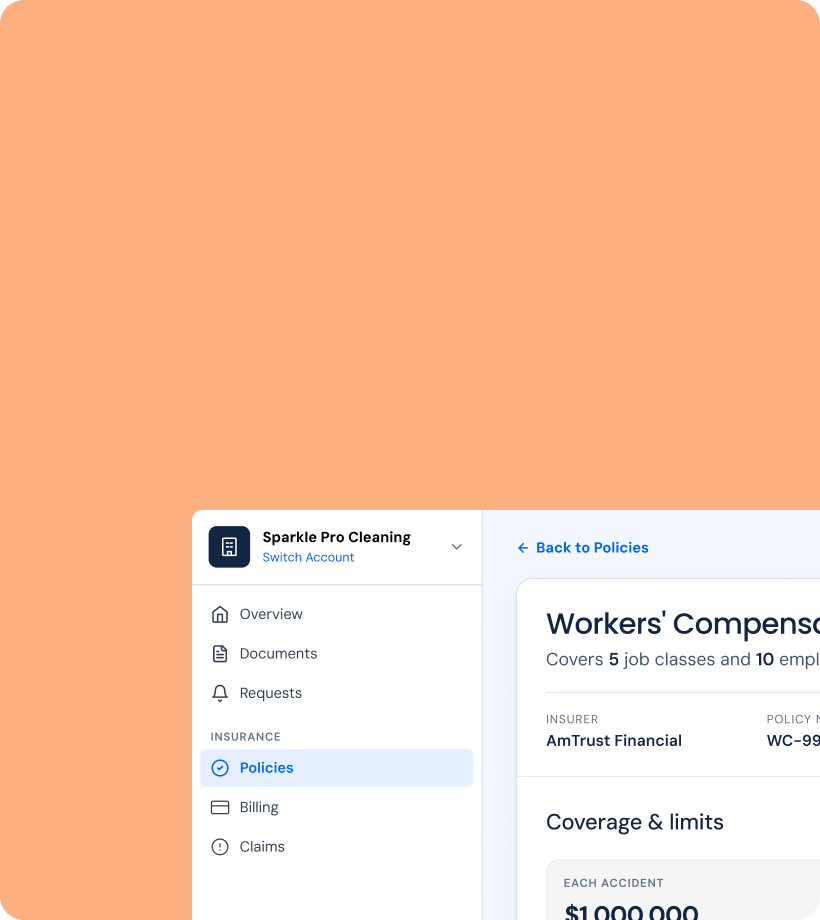
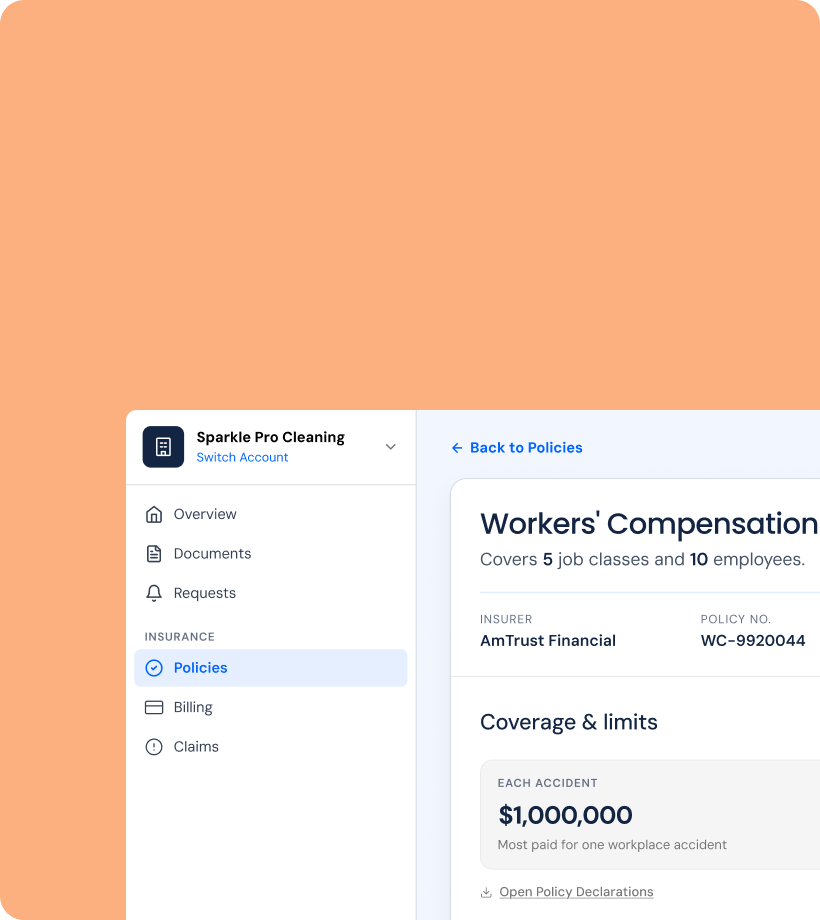
Make client-portal-v2 the live client portal case study: repoint homepage card, update README, refresh card art
Claude-Session: https://claude.ai/code/session_015eDLUmTqyfSk5vfLkTyYR5

diff --git a/index.html b/index.html
@@ -497,7 +497,7 @@ strong { font-weight: 600; }
       <p>Rebuilding quote-and-buy for six commercial insurance lines and thousands of industry codes, growing conversion over 30% YoY</p>
     </a>
 
-    <a href="client-portal.html" class="case-card amber-fill" id="portal-card">
+    <a href="client-portal-v2.html" class="case-card amber-fill" id="portal-card">
       <img class="card-art-full" src="assets/client-portal-stack-v2.png" alt="A workers' compensation policy page in the new client portal, with the account sidebar and coverage limits.">
       <div class="tag-row">
         <span class="case-tag">Case Study</span>

diff --git a/README.md b/README.md
@@ -9,7 +9,8 @@ Source for my product design portfolio.
 - `index.html` — homepage
 - `about.html` — background and how I work
 - `qbs-commercial.html` — Rebuilding a Multi-Carrier Insurance Platform
-- `client-portal.html` — Building a Client Portal's Foundation
+- `client-portal-v2.html` — Creating One System for Hundreds of Coverage Types (live; linked from the homepage)
+- `client-portal.html` — Building a Client Portal's Foundation (previous version, no longer linked)
 - `magpie.html` — Pivoting a Fraud Tool Into a Collectibles Platform
 - `brod-trip.html` — Reviving a Lost Archive with AI
 
